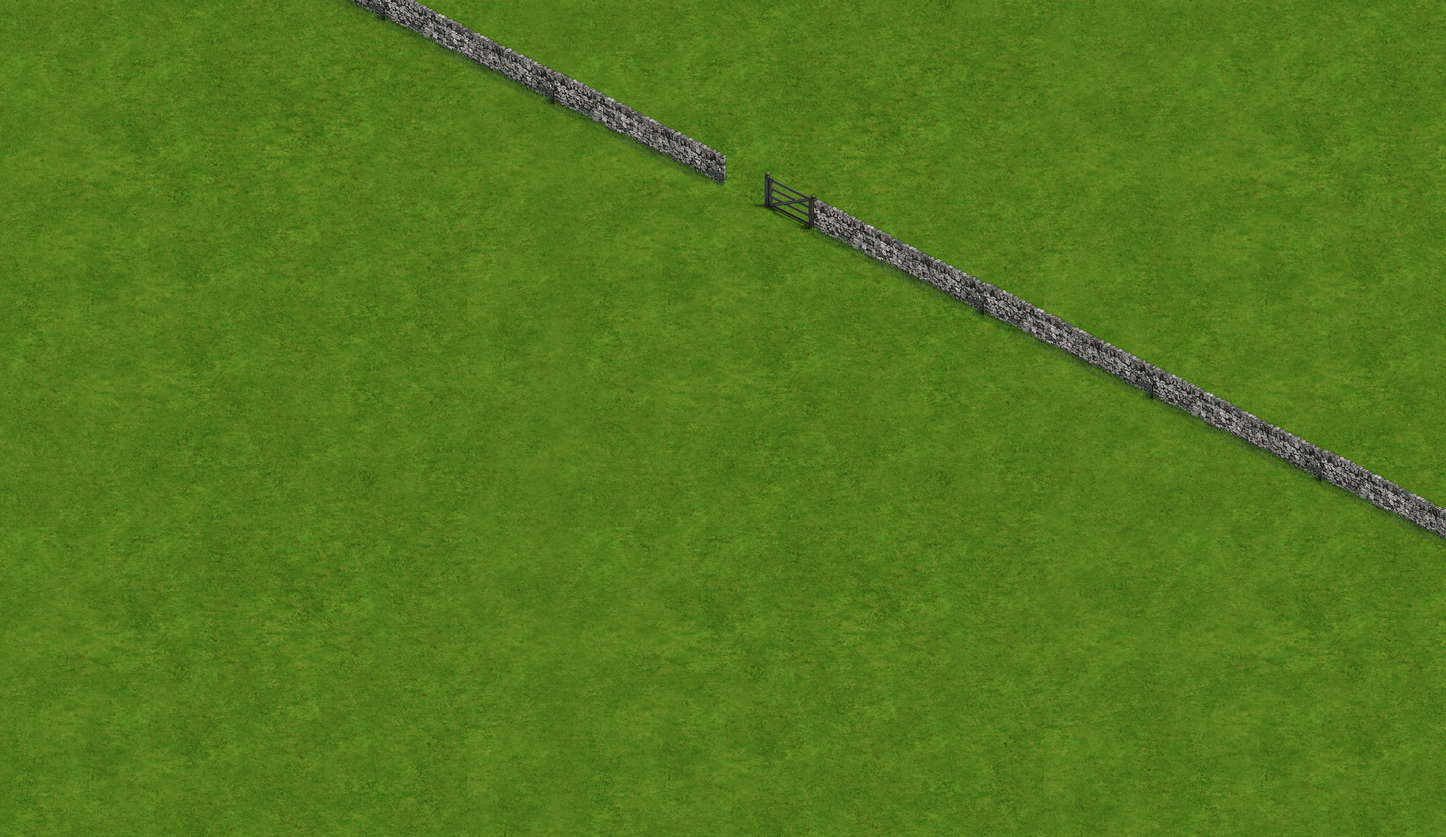
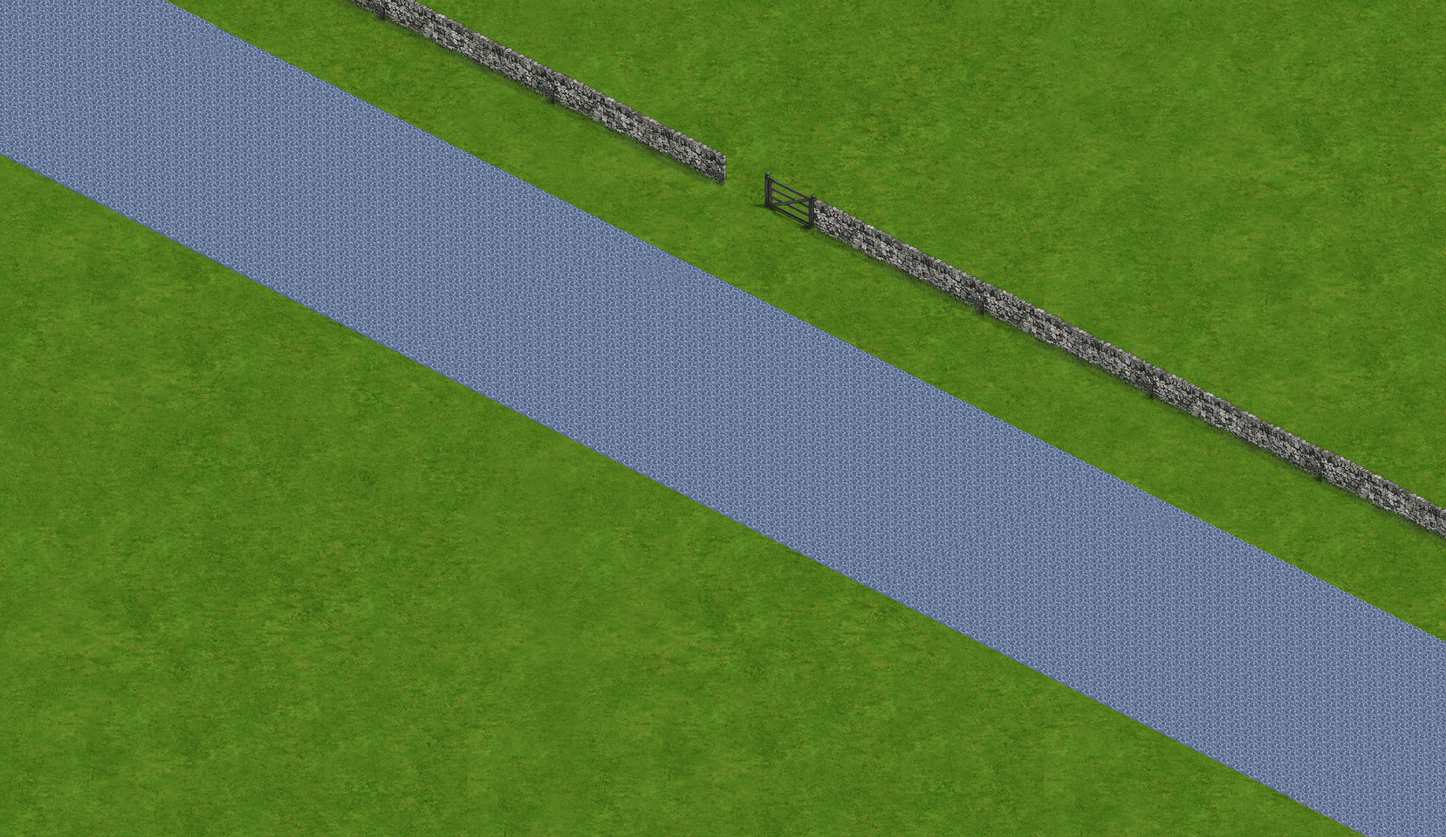
platform graphics

Changed region(s): [[0.0, 0.0, 1.0, 1.0]]

diff --git a/site/htdocs/js/src/game-world/core.js b/site/htdocs/js/src/game-world/core.js
@@ -493,6 +493,7 @@ if (thisMapData.movingPlatforms) {
 for (var i = 0; i < thisMapData.movingPlatforms.length; i++) {
     thisMapData.movingPlatforms[i].x = getTileCentreCoordX(thisMapData.movingPlatforms[i].tileX);
     thisMapData.movingPlatforms[i].y = getTileCentreCoordY(thisMapData.movingPlatforms[i].tileY);
+    thisMapData.movingPlatforms[i].z = 0;
     }
 }
 
@@ -2010,7 +2011,7 @@ function draw() {
                 thisY = findIsoCoordsY(thisPlatform.x, thisPlatform.y);
                    thisGraphicCentreX = thisMapData.graphics[thisPlatform.graphic].centreX;
                     thisGraphicCentreY = thisMapData.graphics[thisPlatform.graphic].centreY;
-                assetsToDraw.push([findIsoDepth(thisPlatform.x, thisPlatform.y, 0), "img", tileImages[thisPlatform.graphic], Math.floor(thisX - hero.isox - thisGraphicCentreX + (canvasWidth / 2)), Math.floor(thisY - hero.isoy - thisGraphicCentreY + (canvasHeight / 2))]);
+                assetsToDraw.push([findIsoDepth(thisPlatform.x, thisPlatform.y, thisPlatform.z), "img", tileImages[thisPlatform.graphic], Math.floor(thisX - hero.isox - thisGraphicCentreX + (canvasWidth / 2)), Math.floor(thisY - hero.isoy - thisGraphicCentreY + (canvasHeight / 2))]);
             }
         }
 
